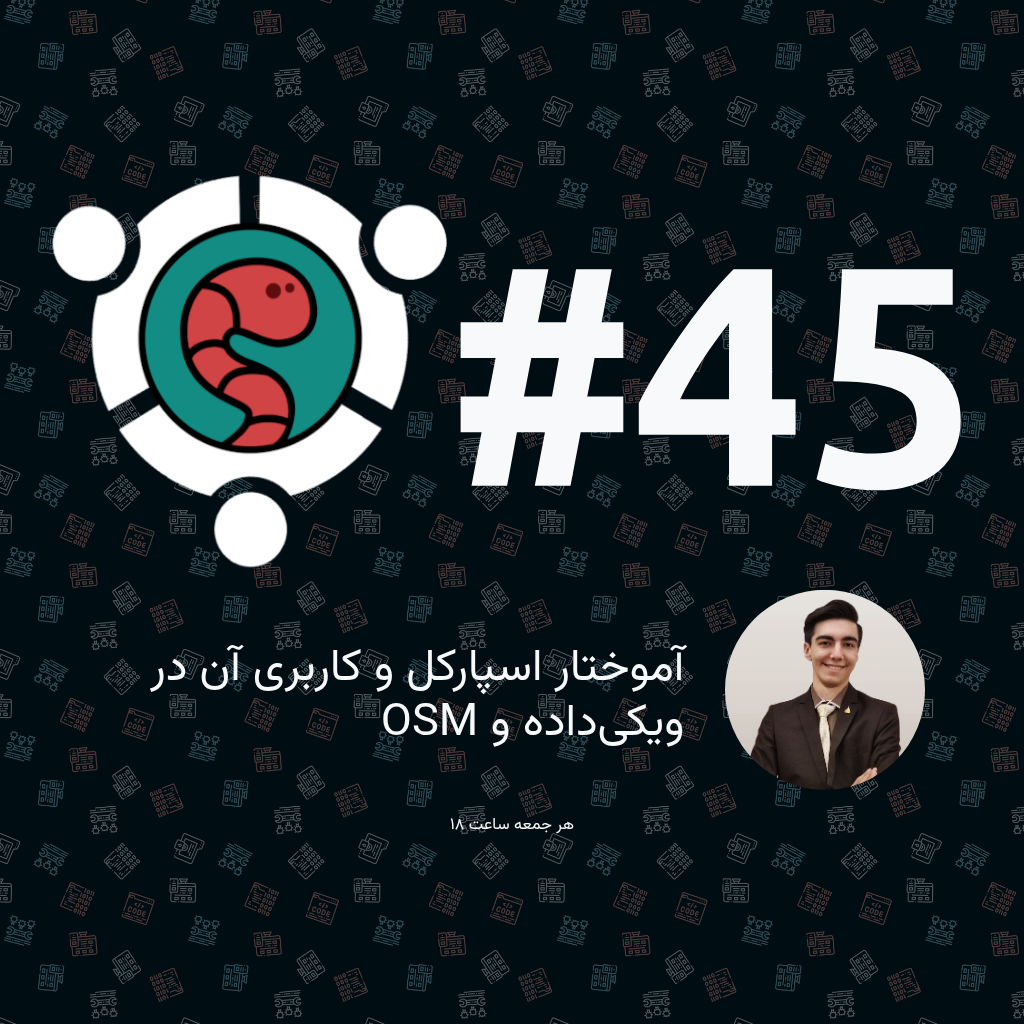
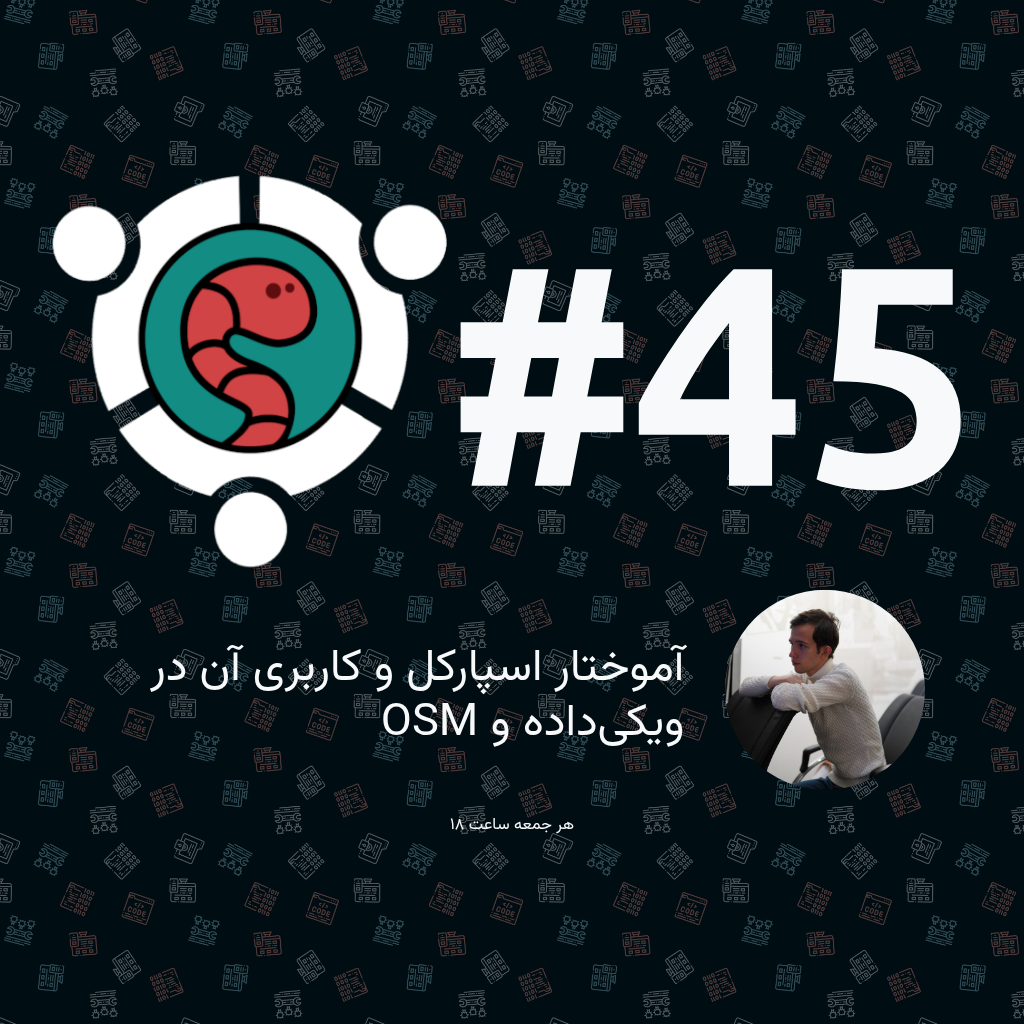
deploy: 88e1f21146ca950e6f7c3f8934111a8bd84f7596

Changed region(s): [[0.6875, 0.5625, 0.9062, 0.7812]]

diff --git a/45/index.html b/45/index.html
@@ -5,7 +5,7 @@
     <meta charset="UTF-8">
     <meta name="viewport" content="width=device-width, initial-scale=1.0">
         <meta property="og:title" content="دورهمی #45 کرمهای کامپیوتر - آموختار اسپارکل و کاربری آن در ویکیداده و OSM" />
-            <meta name="og:description" content="دورهمی #45 کرمهای کامپیوتر جمعه ساعت ۱۸  دربارهٔ آموختار اسپارکل و کاربری آن در ویکیداده و OSM با ارائهٔ شهراد حکمتی فرید"/>
+            <meta name="og:description" content="دورهمی #45 کرمهای کامپیوتر جمعه ساعت ۱۸  دربارهٔ آموختار اسپارکل و کاربری آن در ویکیداده و OSM با ارائهٔ میرسبحان"/>
     <meta property="og:url" content="https://meet.pcworms.ir" />
     <meta property="og:image" content="./preview.png" />
     <title>دورهمیهای کرمهای کامپیوتر</title>
@@ -94,10 +94,10 @@
         <div class="row justify-content-center">
             <div class="col-12 col-sm-10 col-md-8 p-2 subject-bg">
                 <div class=" row align-items-center">
-                    <div class="col-auto float-start text-center"><img src="assets&#x2F;avatars&#x2F;shahrad.jpg" class="profile"></div>
+                    <div class="col-auto float-start text-center"><img src="assets&#x2F;avatars&#x2F;mirsobhan.jpg" class="profile"></div>
                     <div class="col">
                         <small class="speaker d-block">
-                            شهراد حکمتی فرید:
+                            میرسبحان:
                         </small>
                         <h2 class="subject">آموختار اسپارکل و کاربری آن در ویکیداده و OSM</h2>
                         <div class="text-center">

diff --git a/index.html b/index.html
@@ -5,7 +5,7 @@
     <meta charset="UTF-8">
     <meta name="viewport" content="width=device-width, initial-scale=1.0">
         <meta property="og:title" content="دورهمی #45 کرمهای کامپیوتر - آموختار اسپارکل و کاربری آن در ویکیداده و OSM" />
-            <meta name="og:description" content="دورهمی #45 کرمهای کامپیوتر جمعه ساعت ۱۸  دربارهٔ آموختار اسپارکل و کاربری آن در ویکیداده و OSM با ارائهٔ شهراد حکمتی فرید"/>
+            <meta name="og:description" content="دورهمی #45 کرمهای کامپیوتر جمعه ساعت ۱۸  دربارهٔ آموختار اسپارکل و کاربری آن در ویکیداده و OSM با ارائهٔ میرسبحان"/>
     <meta property="og:url" content="https://meet.pcworms.ir" />
     <meta property="og:image" content="./preview.png" />
     <title>دورهمیهای کرمهای کامپیوتر</title>
@@ -94,10 +94,10 @@
         <div class="row justify-content-center">
             <div class="col-12 col-sm-10 col-md-8 p-2 subject-bg">
                 <div class=" row align-items-center">
-                    <div class="col-auto float-start text-center"><img src="assets&#x2F;avatars&#x2F;shahrad.jpg" class="profile"></div>
+                    <div class="col-auto float-start text-center"><img src="assets&#x2F;avatars&#x2F;mirsobhan.jpg" class="profile"></div>
                     <div class="col">
                         <small class="speaker d-block">
-                            شهراد حکمتی فرید:
+                            میرسبحان:
                         </small>
                         <h2 class="subject">آموختار اسپارکل و کاربری آن در ویکیداده و OSM</h2>
                         <div class="text-center">

diff --git a/45/preview.html b/45/preview.html
@@ -30,7 +30,7 @@
                     <div class="col">
                         <h2 class="subject" dir="rtl">آموختار اسپارکل و کاربری آن در ویکیداده و OSM</h2>
                     </div>
-                    <div class="col-auto float-start text-center"><img src="assets&#x2F;avatars&#x2F;shahrad.jpg" class="profile"></div>
+                    <div class="col-auto float-start text-center"><img src="assets&#x2F;avatars&#x2F;mirsobhan.jpg" class="profile"></div>
         </div>
         <div class="row justify-content-center">
             <div class="col-12 p-2 text-center">

diff --git a/preview.html b/preview.html
@@ -30,7 +30,7 @@
                     <div class="col">
                         <h2 class="subject" dir="rtl">آموختار اسپارکل و کاربری آن در ویکیداده و OSM</h2>
                     </div>
-                    <div class="col-auto float-start text-center"><img src="assets&#x2F;avatars&#x2F;shahrad.jpg" class="profile"></div>
+                    <div class="col-auto float-start text-center"><img src="assets&#x2F;avatars&#x2F;mirsobhan.jpg" class="profile"></div>
         </div>
         <div class="row justify-content-center">
             <div class="col-12 p-2 text-center">
